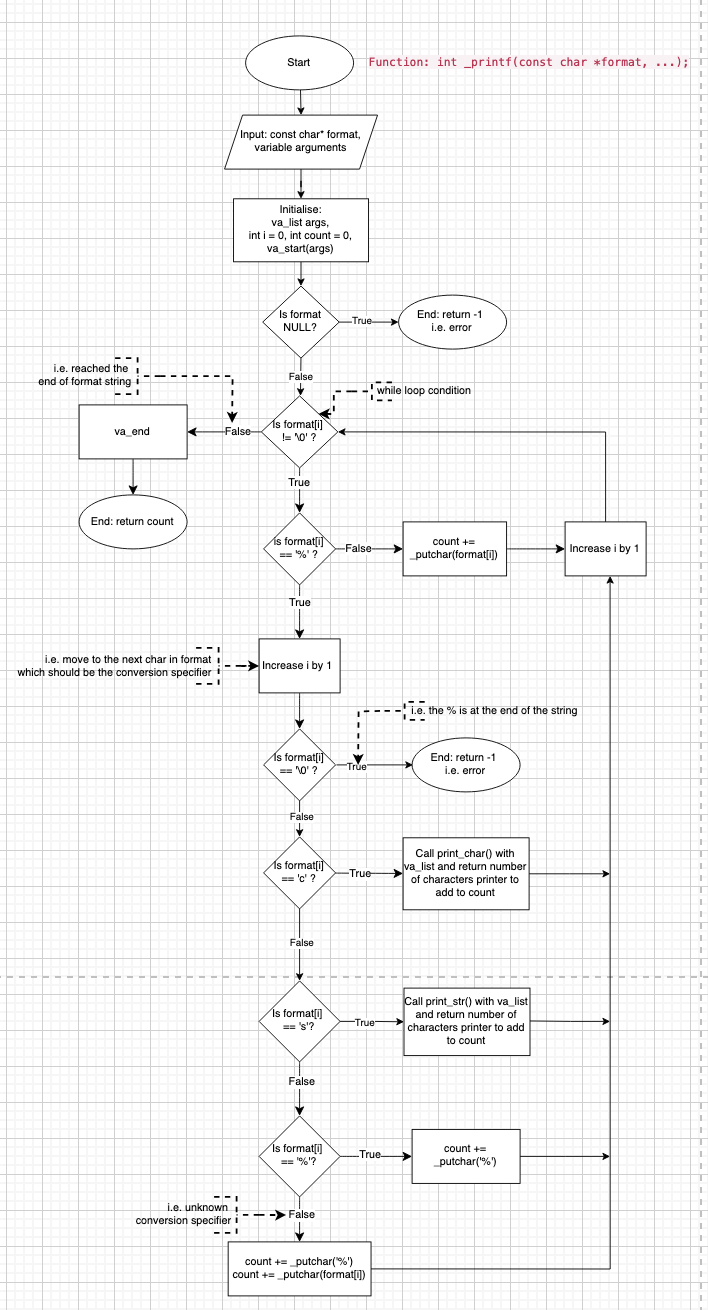
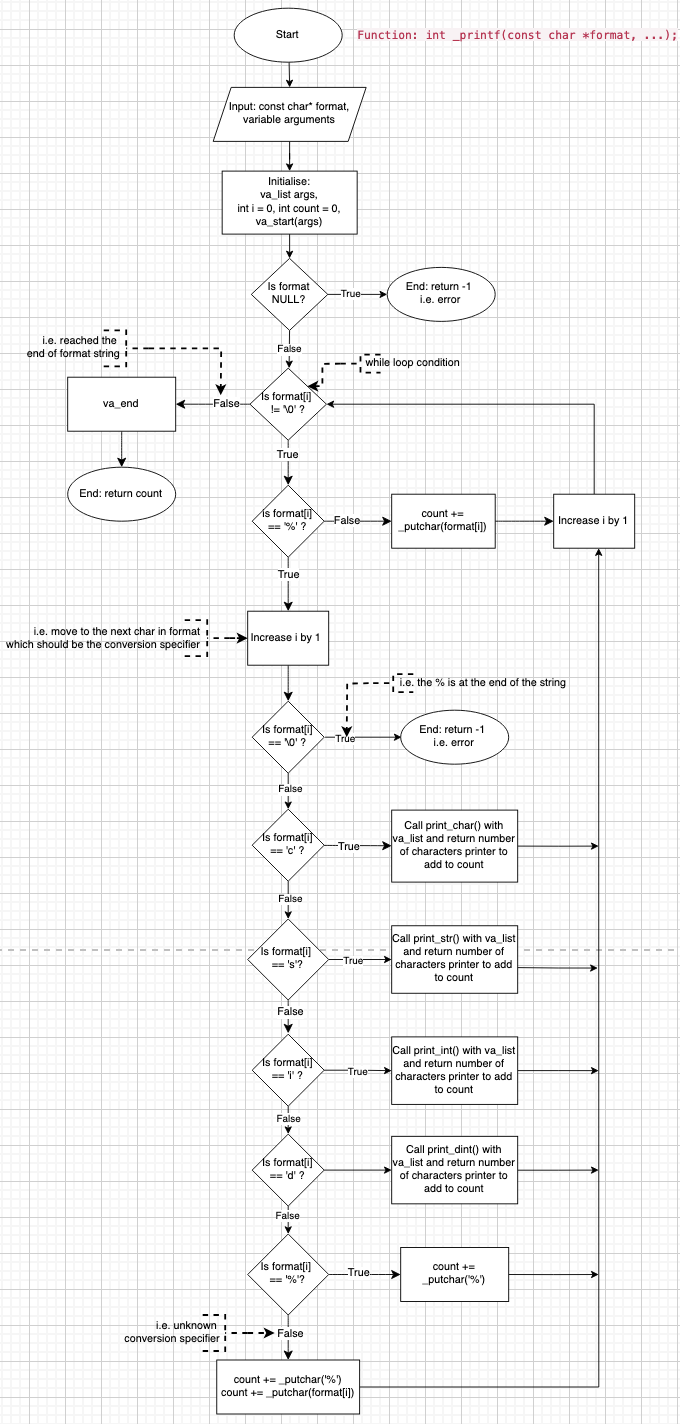
update

Changed region(s): [[0.0, 0.0, 1.0, 1.0]]

diff --git a/README.md b/README.md
@@ -7,6 +7,23 @@ The _printf function formats and prints data to standard output(stdout) accordin
 ## Flowchart
 ![Flowchart](assets/flowchart.png)
 
+The flowchart illustrates the logic and control flow of the custom _printf function, mimicking the behaviour of the standard printf function in C.
+- Function Entry – _printf(const char *format, ...) <br>
+The function starts by receiving a format string and a variable number of arguments. It initialises necessary variables and sets up the va_list to access the arguments. <br>
+
+- Looping <br>
+The function enters a loop to iterate through each character of the format string: If a character is not a percent sign (%), it's printed directly using _putchar.
+If a character is a percent sign, the next character is treated as a format specifier.
+
+- Format Specifier Handling <br>
+Using a mapping structure (an array of structs) called printer matches the specifier (e.g., 'c', 's', 'd' , 'i', '%') with its corresponding print function (like print_char, print_string or print_int). The corresponding function is called, and the correct arugment is retrived using va_arg.
+
+- Output <br>
+Each specific handler function (e.g., print_int, print_char) processes its input and uses _putchar or helper functions to print the output one character at a time. The function also keeps track of how many characters have been printed in total.
+
+- Completion <br>
+Once the format string has been fully parsed and all arguments printed, _printf ends by cleaning up the va_list and returning the total numbers of characters printed.
+
 ## Contribution Guidelines
 
 If you would like to contribute to the project development:
